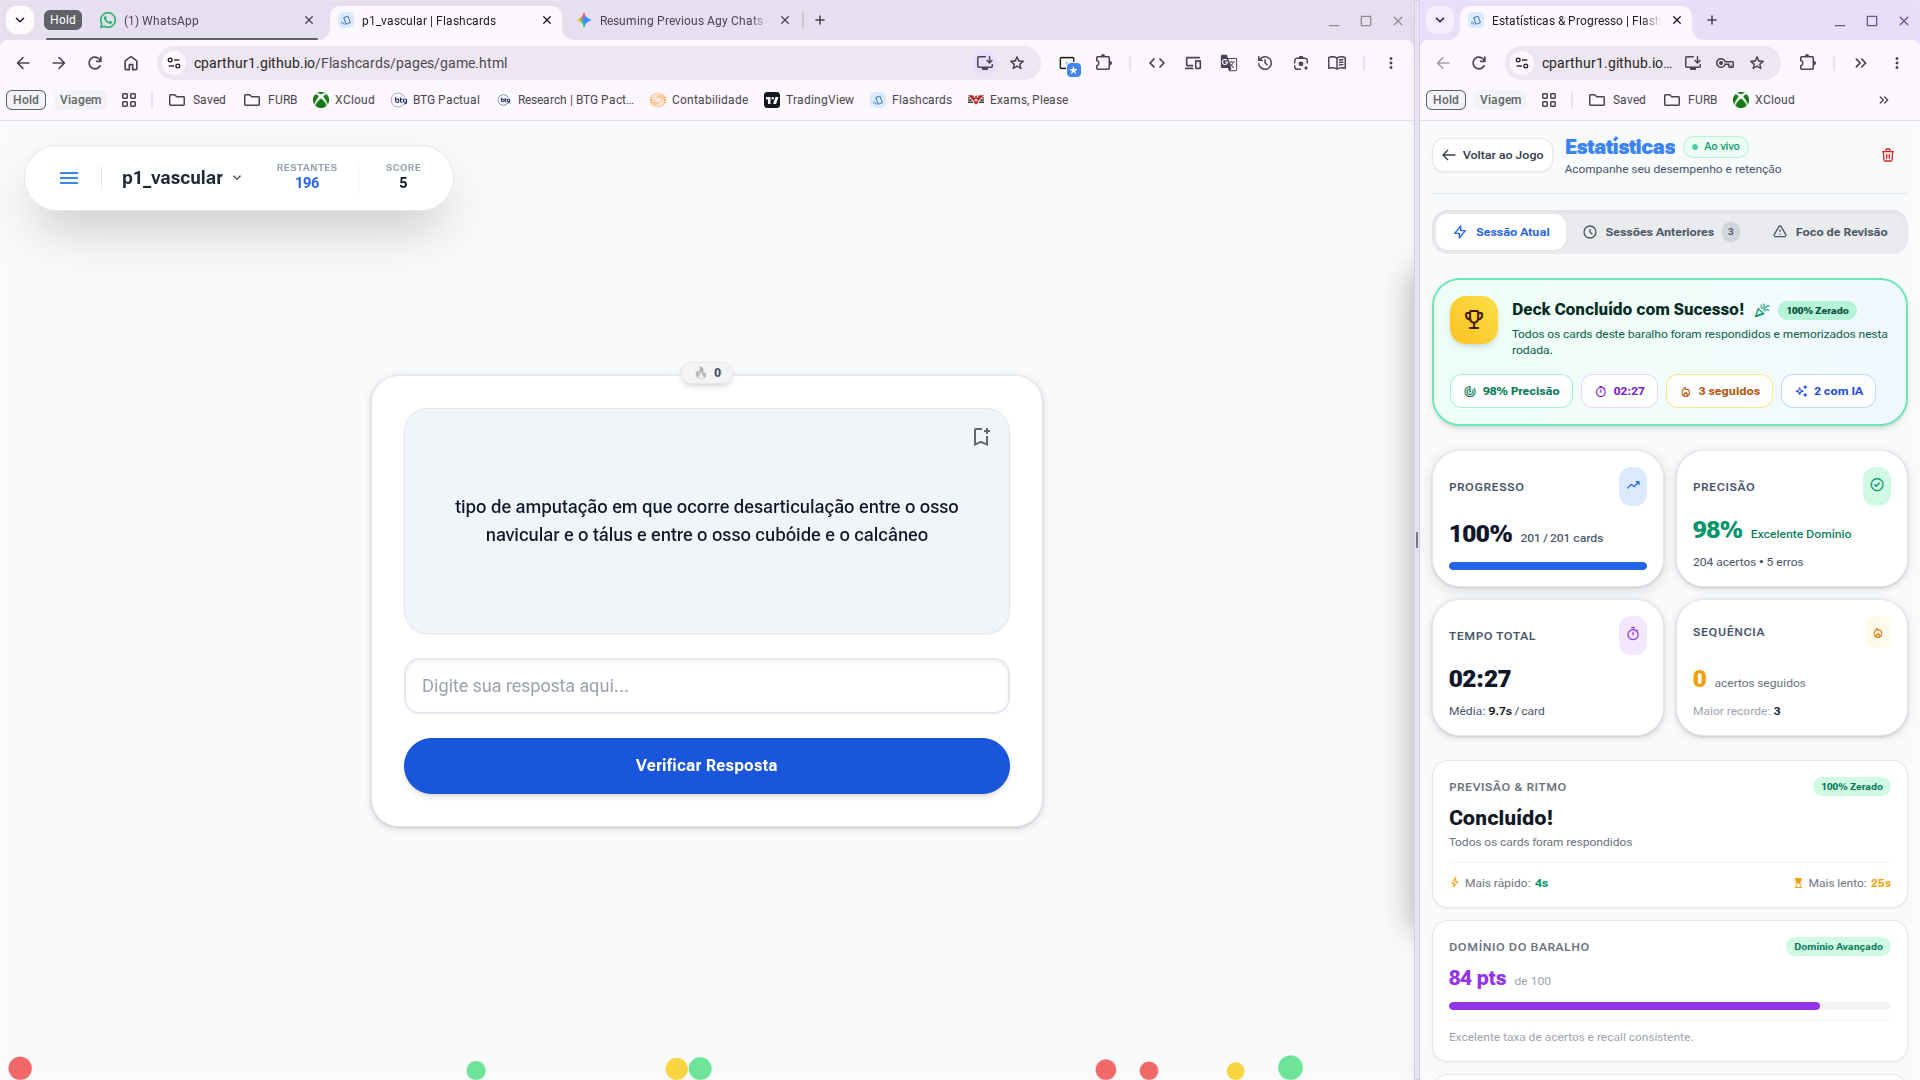
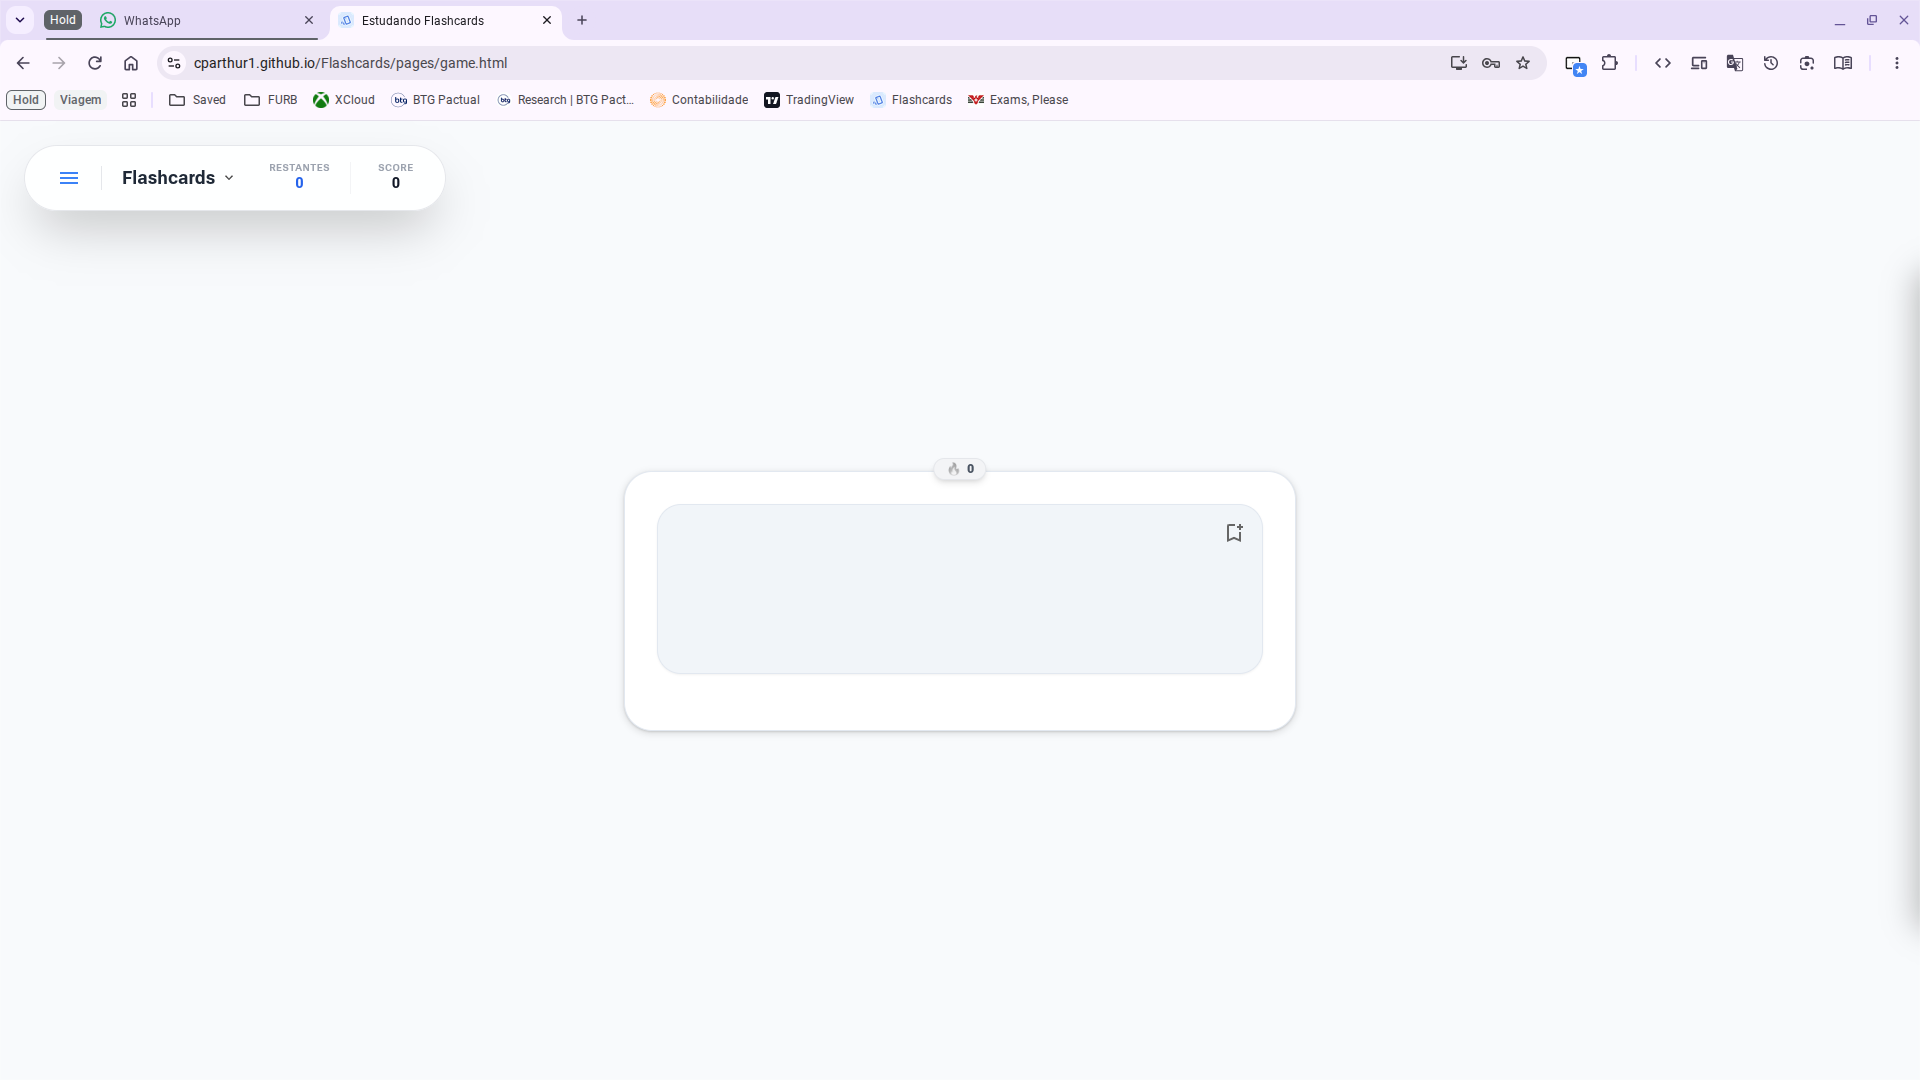
FIX: deck loading bug

diff --git a/js/game.js b/js/game.js
@@ -1,6 +1,6 @@
 import { normalizeString, calculateSimilarity, shuffleArray, checkAndResetModelFallback, ROUTES, renderMathAndMarkdown } from './utils.js';
 import { isPlayableCard, calculateThinkingGap, selectNextCard, isLeechCard, shouldGraduateCard, formatTimeDisplay } from './engine/scheduler.js';
-import { initEffects, createBall, clearBalls, setBallColor, launchCelebrationParticles, playCompletionShockwave, resizeCanvas, triggerHaptic, isHapticEnabled, setHapticEnabled, updateHapticUI } from './engine/effects.js';
+import { initEffects, createBall, clearBalls, setBallColor, launchCelebrationParticles, playCompletionShockwave, resizeCanvas, animate, triggerHaptic, isHapticEnabled, setHapticEnabled, updateHapticUI } from './engine/effects.js';
 import { initInputController, startGamepadLoop, stopGamepadLoop } from './engine/input-controller.js';
 import { isTutorEnabled, setTutorApiKey, disableTutor, initTutor, updateTutorUI, setLastUserAnswerForChat, getLastUserAnswerForChat, resetTutorChatSession, getHasChatInteraction, setHasChatInteraction, evaluateAnswerSemantic, addMsg, showTyping, hideTyping, sendTutorChatMessage } from './engine/tutor.js';
 import { initTransfer } from './transfer.js';

diff --git a/sw.js b/sw.js
@@ -1,4 +1,4 @@
-const CACHE_NAME = 'flashcards-v7.0'; // Increment version to trigger update
+const CACHE_NAME = 'flashcards-v7.1'; // Increment version to trigger update
 
 const BASE_PATH = self.registration && self.registration.scope 
   ? new URL(self.registration.scope).pathname.replace(/\/$/, '') 

diff --git a/js/engine/effects.js b/js/engine/effects.js
@@ -285,7 +285,7 @@ export function createBall(isCorrect) {
     return balls.length - 1;
 }
 
-function animate() {
+export function animate() {
     if (!canvasElement || !canvasCtx) return;
     canvasCtx.clearRect(0, 0, canvasElement.width, canvasElement.height);
     let anyMoving = false;
